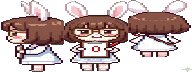
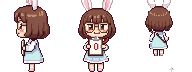
Add files via upload

diff --git a/games/suhaktokki/game.js b/games/suhaktokki/game.js
@@ -432,6 +432,37 @@
     return `${m}:${s.toString().padStart(2, '0')}`;
   }
 
+  // ---------- Pixel-sprite tinting (for special pose sheets) ----------
+  // We keep this very lightweight: create a tinted offscreen canvas per (sheetKey,colorIdx).
+  // This is used for one-off pose sheets like "teacher_kill0" and "student_cry" so
+  // the outfit color matches the player's color selection.
+  function getTintedSheet(sheetKey, colorIdx) {
+    const img = AS.pixel?.[sheetKey];
+    if (!img) return null;
+    if (!AS._tintCache) AS._tintCache = {};
+    const k = sheetKey + ':' + String(colorIdx|0);
+    if (AS._tintCache[k]) return AS._tintCache[k];
+
+    const c = document.createElement('canvas');
+    c.width = img.width; c.height = img.height;
+    const g = c.getContext('2d');
+    g.imageSmoothingEnabled = false;
+    // base
+    g.clearRect(0,0,c.width,c.height);
+    g.drawImage(img,0,0);
+    // tint (multiply keeps shading). We intentionally keep alpha < 1 so skin/hair aren't fully recolored.
+    g.globalCompositeOperation = 'multiply';
+    g.globalAlpha = 0.78;
+    g.fillStyle = colorHex(colorIdx);
+    g.fillRect(0,0,c.width,c.height);
+    g.globalCompositeOperation = 'destination-in';
+    g.globalAlpha = 1;
+    g.drawImage(img,0,0);
+    g.globalCompositeOperation = 'source-over';
+    AS._tintCache[k] = c;
+    return c;
+  }
+
   // "모바일" 판정이 너무 보수적이면 조이스틱 UI가 안 뜨는 경우가 있어
   // coarse pointer + touchpoints 를 함께 고려
   const isMobile = matchMedia('(pointer:coarse)').matches || ('ontouchstart' in window) || ((navigator && navigator.maxTouchPoints) ? navigator.maxTouchPoints > 0 : false);
@@ -461,10 +492,10 @@
     } catch (_) {}
   }
 
-  async function leaveRoom() {
+  async function leaveRoom(reason) {
     if (EMBED){
-      // In multiroom iframe: just return to room UI
-      try{ bridgeSend("sk_quit", {}); }catch(_){ }
+      // In multiroom iframe: return to room UI (parent page controls room phase)
+      try{ bridgeSend("sk_quit", { reason: reason || '' }); }catch(_){ }
       try{ stopHeartbeat(); }catch(_){ }
       try{ G.net?.close?.(); }catch(_){ }
       G.net = null;
@@ -496,7 +527,7 @@
     // Host-confirmed exit: end the match for everyone and go back to the room after 1.5s.
     try { showCenterNotice('호스트 이탈로 게임이 종료되었습니다.', 1500); } catch (_) {}
     try { if (G.net && G.net.isHost) broadcast({ t: 'hostExit', reason: 'host_exit', at: now() }); } catch (_) {}
-    setTimeout(() => { try { leaveRoom(); } catch (_) {} }, 1500);
+    setTimeout(() => { try { leaveRoom('host_exit'); } catch (_) {} }, 1500);
   }
 
   // When the match ends (winner decided), automatically return everyone back to the room.
@@ -509,7 +540,7 @@
     try { showCenterNotice('게임이 종료되었습니다. 잠시 후 방으로 돌아갑니다.', 1600); } catch (_) {}
     // Tell all clients to quit (they handle hostExit by calling leaveRoom).
     try { if (G.net && G.net.isHost) broadcast({ t: 'hostExit', reason: 'match_end', at: now() }); } catch (_) {}
-    setTimeout(() => { try { leaveRoom(); } catch (_) {} }, 1700);
+    setTimeout(() => { try { leaveRoom('match_end'); } catch (_) {} }, 1700);
   }
 
   function tryHostLeave() {
@@ -1166,6 +1197,8 @@
       ['teacher_basic_sheet', 'assets/pixel/teacher_basic_sheet.png'],
       ['teacher_kill0_sheet', 'assets/pixel/teacher_kill0_sheet.png'],
       ['teacher_tch_sheet', 'assets/pixel/teacher_tch_sheet.png'],
+      // Ejected student crying pose (single frame)
+      ['student_cry_sheet', 'assets/pixel/student_cry_sheet.png'],
     ];
     await Promise.all(px.map(async ([k, url]) => {
       try { AS.pixel[k] = greenKeyExact(await loadImage(url)); }
@@ -3695,6 +3728,33 @@ function hostHandleInteract(playerId) {
 
     // '다음 긴급회의 한정' : 긴급회의(종)에서만 2표 + 소멸
     if (emergency && voter.crown) voter.crown = false;
+
+    // Live vote UI update: send current counts so everyone sees "who has how many votes".
+    // (Clients can still change their vote until the timer ends.)
+    try{
+      const snap = hostVoteSnapshot();
+      broadcast({ t: 'voteUpdate', ...snap });
+    }catch(_){ }
+  }
+
+  function hostVoteSnapshot() {
+    // Returns a lightweight tally for the meeting UI.
+    const st = G.state;
+    const tally = {};
+    let skip = 0;
+    let total = 0;
+    for (const [voterId, v] of G.host.votes.entries()) {
+      const voter = st.players[voterId];
+      if (!voter || !voter.alive || voter.down) continue;
+      const target = (v && typeof v === 'object') ? v.target : v;
+      const w = (v && typeof v === 'object' && v.weight) ? v.weight : 1;
+      total += w;
+      if (target == null) { skip += w; continue; }
+      const t = st.players[target];
+      if (!t || !t.alive || t.down) continue;
+      tally[target] = (tally[target] || 0) + w;
+    }
+    return { tally, skip, total, endsAt: G.host.meetingEndsAt || 0 };
   }
 
   function hostResolveMeeting() {
@@ -4668,7 +4728,13 @@ function showToast(text) {
     }
     const tag = (kind === 'report') ? '🚨 신고' : '🔔 긴급회의';
     meetingInfo.textContent = `${tag} · ${reason}`;
-    G.ui.meeting.voted = false;
+    // Local vote state (clients may change vote until timer ends)
+    G.ui.meeting.voted = false; // legacy flag (kept for compatibility)
+    G.ui.meeting.myVote = undefined;
+    G.ui.meeting.tally = {};
+    G.ui.meeting.skip = 0;
+    G.ui.meeting.total = 0;
+    G.ui.meeting.endsAt = Number(endsAt || 0);
 
     renderMeetingRoster();
     renderMeetingChat();
@@ -4710,6 +4776,18 @@ function showToast(text) {
     const st = G.state;
     const meId = G.net?.myPlayerId;
 
+    const endsAt = Number(G.ui?.meeting?.endsAt || 0);
+    const canVoteTime = (endsAt ? (now() < endsAt) : true);
+    const myVote = G.ui?.meeting?.myVote;
+    const tally = (G.ui?.meeting?.tally) || {};
+    const skipCnt = Number(G.ui?.meeting?.skip || 0);
+    const isGhost = (()=>{
+      try{
+        const me = st.players[meId];
+        return (!me || !me.alive || me.down);
+      }catch(_){ return false; }
+    })();
+
     // Keep roster in sync with current alive/down states
     renderMeetingRoster();
 
@@ -4729,25 +4807,62 @@ function showToast(text) {
       label.style.fontWeight = '900';
       left.appendChild(icon);
       left.appendChild(label);
+      // vote count badge
+      const badge = document.createElement('div');
+      badge.textContent = String(tally[p.id] || 0);
+      badge.style.minWidth = '24px';
+      badge.style.padding = '2px 8px';
+      badge.style.borderRadius = '999px';
+      badge.style.background = 'rgba(255,255,255,.08)';
+      badge.style.border = '1px solid rgba(255,255,255,.12)';
+      badge.style.fontWeight = '900';
+      badge.style.textAlign = 'center';
+
       const btn = document.createElement('button');
       btn.className = 'ui';
-      btn.textContent = '투표';
-      btn.disabled = G.ui.meeting.voted || p.id === meId;
+      const selected = (myVote === p.id);
+      btn.textContent = selected ? '선택됨' : '투표';
+      btn.disabled = (!canVoteTime) || isGhost || (p.id === meId);
       btn.onclick = () => {
         if (!G.net) return;
-        G.ui.meeting.voted = true;
+        if (!canVoteTime) return;
+        if (isGhost) return;
+        G.ui.meeting.myVote = p.id;
         G.net.post({ t: 'vote', playerId: meId, target: p.id });
         renderVoteList();
       };
       row.appendChild(left);
+      row.appendChild(badge);
       row.appendChild(btn);
+
+      // highlight my choice
+      if (selected) {
+        row.style.outline = '2px solid rgba(125,211,252,.55)';
+        row.style.borderRadius = '12px';
+        row.style.padding = '6px';
+      }
       voteList.appendChild(row);
     });
+
+    // Skip vote button state (show count + my selection)
+    try{
+      const selSkip = (myVote === null);
+      skipVote.textContent = selSkip ? `기권(선택됨) · ${skipCnt}표` : `기권 · ${skipCnt}표`;
+      skipVote.disabled = (!canVoteTime) || isGhost;
+      skipVote.style.outline = selSkip ? '2px solid rgba(125,211,252,.55)' : '';
+    }catch(_){ }
   }
 
   skipVote.addEventListener('click', () => {
     if (!G.net) return;
-    G.ui.meeting.voted = true;
+    const endsAt = Number(G.ui?.meeting?.endsAt || 0);
+    if (endsAt && now() >= endsAt) return;
+    // Ghosts cannot vote
+    try{
+      const me = G.state?.players?.[G.net?.myPlayerId];
+      if (!me || !me.alive || me.down) return;
+    }catch(_){ }
+    G.ui.meeting.myVote = null;
     G.net.post({ t: 'vote', playerId: Number(G.net.myPlayerId || 0), target: null });
     renderVoteList();
   });
@@ -4975,7 +5090,9 @@ function showToast(text) {
           const ok = drawTeacherSceneSheet('teacher_tch_sheet', cx, cy, 1.05 * DPR, t, 'teacher');
           if (!ok) drawBunny(cx, cy, 2.4 * DPR, p.color ?? 0, t - SCENE.startAt, mood);
         } else {
-          drawBunny(cx, cy, 2.4 * DPR, p.color ?? 0, t - SCENE.startAt, mood);
+          // ejected student: prefer the dedicated crying sheet
+          const ok = drawStudentCrySceneSheet(cx, cy, 1.10 * DPR, p.color ?? 0, t);
+          if (!ok) drawBunny(cx, cy, 2.4 * DPR, p.color ?? 0, t - SCENE.startAt, mood);
         }
 
         // 말풍선
@@ -5010,6 +5127,29 @@ function showToast(text) {
     sceneCtx.globalAlpha = 1;
 
     sceneCtx.drawImage(sheet, viewX, 0, sw, sh, Math.round(x - dw/2), Math.round(y - dh*0.70 + bob), dw, dh);
+    sceneCtx.restore();
+    return true;
+  }
+
+  function drawStudentCrySceneSheet(x, y, scale, colorIdx, t) {
+    const sheet = (getTintedSheet('student_cry_sheet', colorIdx) || AS.pixel?.student_cry_sheet);
+    if (!sheet) return false;
+    const bob = Math.sin(t * 0.01) * 1.6;
+    const sw = 64, sh = 72;
+    const dw = Math.round(sw * scale);
+    const dh = Math.round(sh * scale);
+
+    sceneCtx.save();
+    sceneCtx.imageSmoothingEnabled = false;
+    // shadow
+    sceneCtx.globalAlpha = 0.22;
+    sceneCtx.fillStyle = '#000';
+    sceneCtx.beginPath();
+    sceneCtx.ellipse(x, y + dh * 0.22, dw * 0.28, dh * 0.09, 0, 0, Math.PI * 2);
+    sceneCtx.fill();
+    sceneCtx.globalAlpha = 1;
+
+    sceneCtx.drawImage(sheet, 0, 0, sw, sh, Math.round(x - dw/2), Math.round(y - dh*0.70 + bob), dw, dh);
     sceneCtx.restore();
     return true;
   }
@@ -7887,7 +8027,7 @@ try{
     const killPose = p.role === 'teacher' && p.emoteUntil && now() < p.emoteUntil && p.emoteKind === 'kill0' && AS.pixel?.teacher_kill0_sheet;
 
     if (killPose) {
-      const sheet = AS.pixel.teacher_kill0_sheet;
+      const sheet = getTintedSheet('teacher_kill0_sheet', p.color ?? 0) || AS.pixel.teacher_kill0_sheet;
       ctx.save();
       ctx.imageSmoothingEnabled = false;
       ctx.translate(x, ySprite);
@@ -9348,6 +9488,19 @@ net.on('uiMeetingOpen', (m) => {
       openMeetingUI(m.kind || 'emergency', m.reason || '회의!', m.endsAt || (now() + 20_000));
     });
 
+    // Live vote counts (who has how many votes) + remaining time.
+    net.on('voteUpdate', (m) => {
+      try{
+        if (!G.ui) G.ui = {};
+        if (!G.ui.meeting) G.ui.meeting = {};
+        G.ui.meeting.tally = m.tally || {};
+        G.ui.meeting.skip = Number(m.skip || 0);
+        G.ui.meeting.total = Number(m.total || 0);
+        if (m.endsAt) G.ui.meeting.endsAt = Number(m.endsAt);
+        if (G.phase === 'meeting') renderVoteList();
+      }catch(_){ }
+    });
+
     // Meeting chat packets (Among-Us style)
     net.on('meetingChat', (m) => {
       const mid = Number(m.meetingId || 0);
@@ -9389,7 +9542,7 @@ net.on('uiMeetingOpen', (m) => {
       if (!G.ui) G.ui = {};
       G.ui._hostExitHandled = true;
       try { showCenterNotice('호스트 이탈로 게임이 종료되었습니다.', 1500); } catch (_) {}
-      setTimeout(() => { try { leaveRoom(); } catch (_) {} }, 1500);
+      setTimeout(() => { try { leaveRoom(m?.reason || 'host_exit'); } catch (_) {} }, 1500);
     });
     net.on('uiRoleReveal', (m) => {
       if (m.to != null && Number(m.to) !== Number(net.myPlayerId)) return;

diff --git a/server/rooms/GameRoom.js b/server/rooms/GameRoom.js
@@ -200,6 +200,38 @@ this.st = {
       this.broadcast("sk_msg", { msg: inner });
     });
 
+    // SuhakTokki match end -> reset room back to lobby (like Together)
+    // Called by the parent room page when the embedded iframe reports match_end/host_exit.
+    this.onMessage("sk_over", (client, payload) => {
+      if (this.state.mode !== "suhaktokki") return;
+      if (this.state.phase !== "playing") return;
+
+      // Prefer host authority, but if host is missing, allow any client to recover the room.
+      let hostSid = null;
+      for (const [sid, ps] of this.state.players.entries()){
+        if (ps?.isHost){ hostSid = sid; break; }
+      }
+      const isHost = (!hostSid) || (client.sessionId === hostSid);
+      if (!isHost) return;
+
+      const reason = String(payload?.reason || "match_end").slice(0, 32);
+      const keepHost = hostSid || client.sessionId;
+      this.resetToLobby(reason);
+
+      // Restore host ownership so the room remains controllable after returning.
+      try{
+        for (const ps of this.state.players.values()) ps.isHost = false;
+        const hp = this.state.players.get(keepHost);
+        if (hp) hp.isHost = true;
+        const hostNick = hp?.nick || "-";
+        this.setMetadata({ ...this.metadata, hostNick });
+      }catch(_){ }
+
+      this.recomputeReady();
+      this.syncMetadata();
+      this.broadcast("backToRoom", { mode: "suhaktokki", reason });
+    });
+
     // ---- Togester relay (Firebase 제거: Colyseus 메시지로 동기화) ----
     this.onMessage("tg_state", (client, { state }) => {
       if (this.state.mode !== "togester") return;

diff --git a/js/pages/room.js b/js/pages/room.js
@@ -791,7 +791,19 @@ function updatePreview(modeId){
     // In-game "나가기" from embedded SuhakTokki iframe (return to room UI only)
     if (d.type === "sk_quit"){
       if (!fromMain) return;
-      forceLobbyUI = true;
+      // SuhakTokki uses sk_quit for both manual leave and match-end return.
+      // If the match ended, ask the server to reset the room back to lobby
+      // so the "게임중" label disappears and the start button re-appears.
+      try{
+        const r = (d && typeof d.reason === 'string') ? d.reason : '';
+        if (r === 'match_end' || r === 'host_exit') {
+          try{ room.send('sk_over', { reason: r }); }catch(_){ }
+          // Once the room is reset, we don't need to force the lobby UI.
+          forceLobbyUI = false;
+        } else {
+          forceLobbyUI = true;
+        }
+      }catch(_){ forceLobbyUI = true; }
       try{ exitGameFullscreen(); }catch(_){ }
       try{ renderPlayers(); }catch(_){ }
       return;
